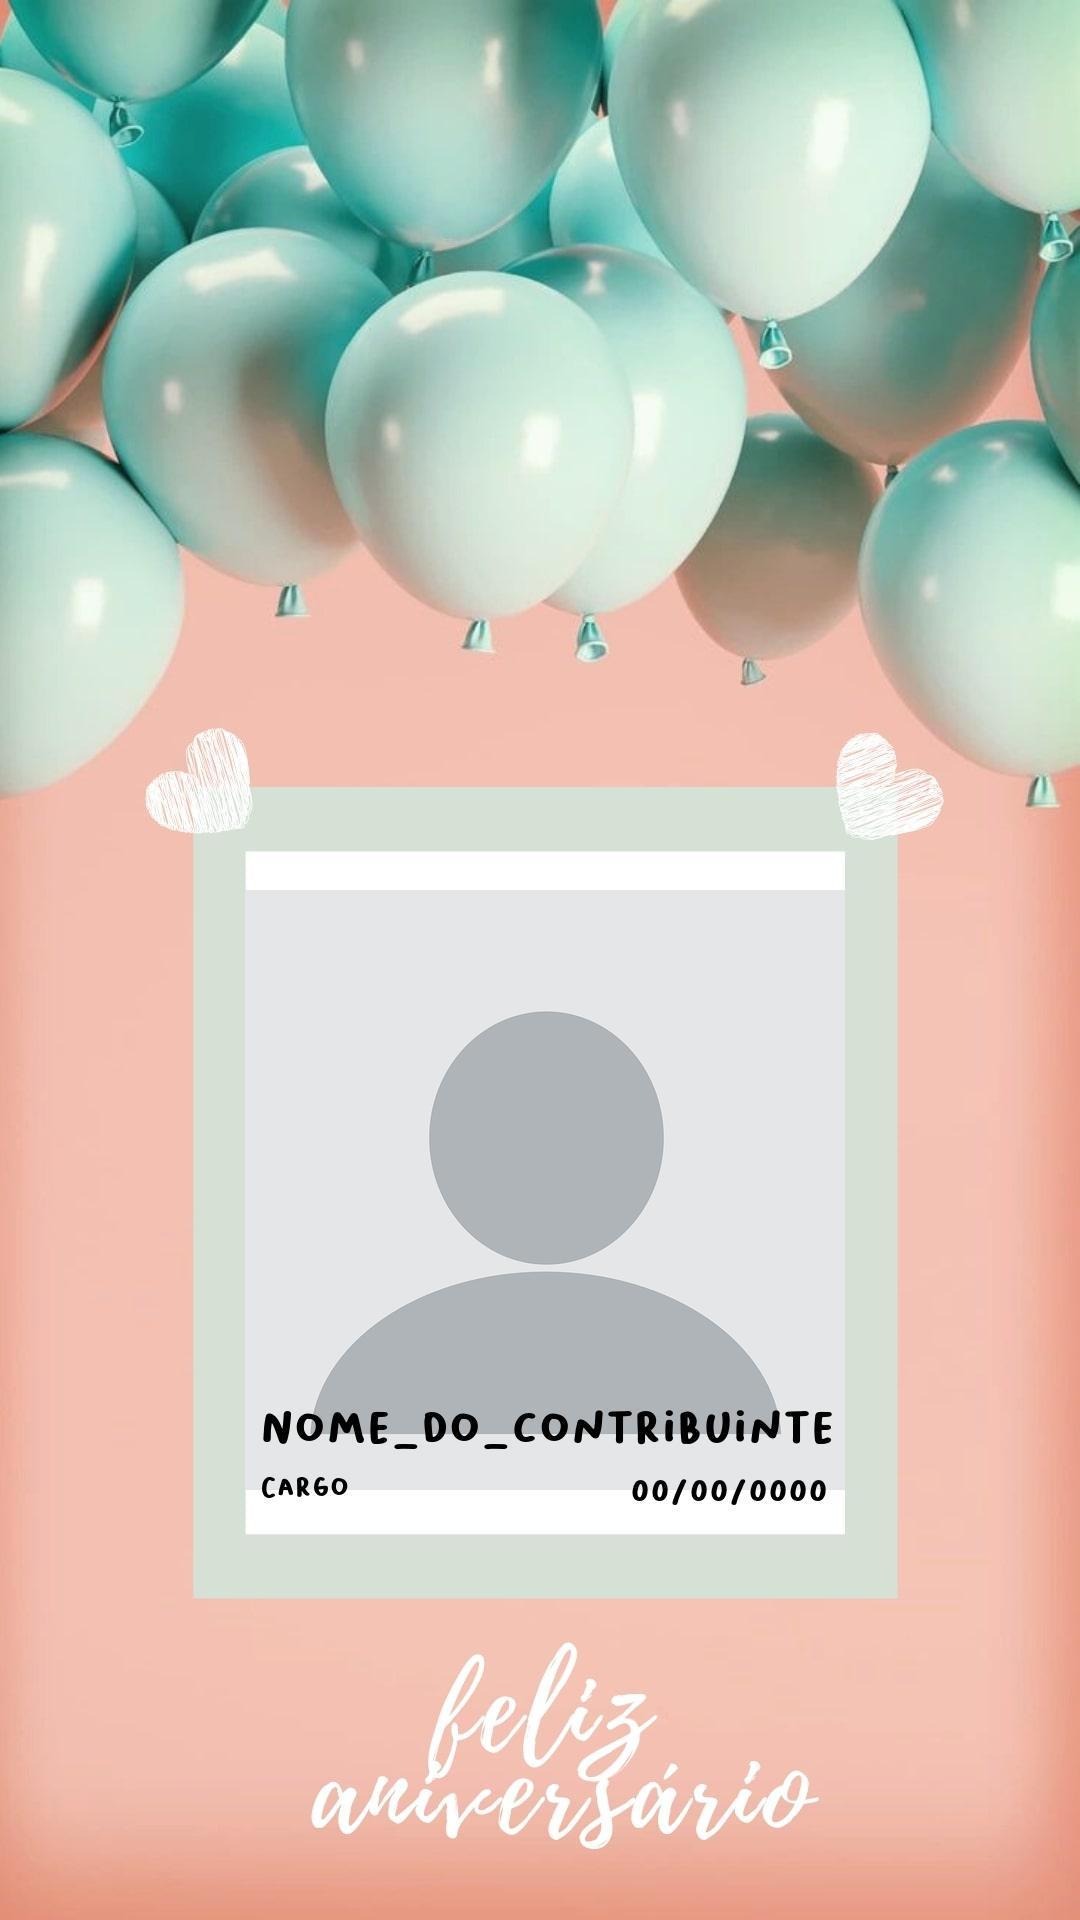
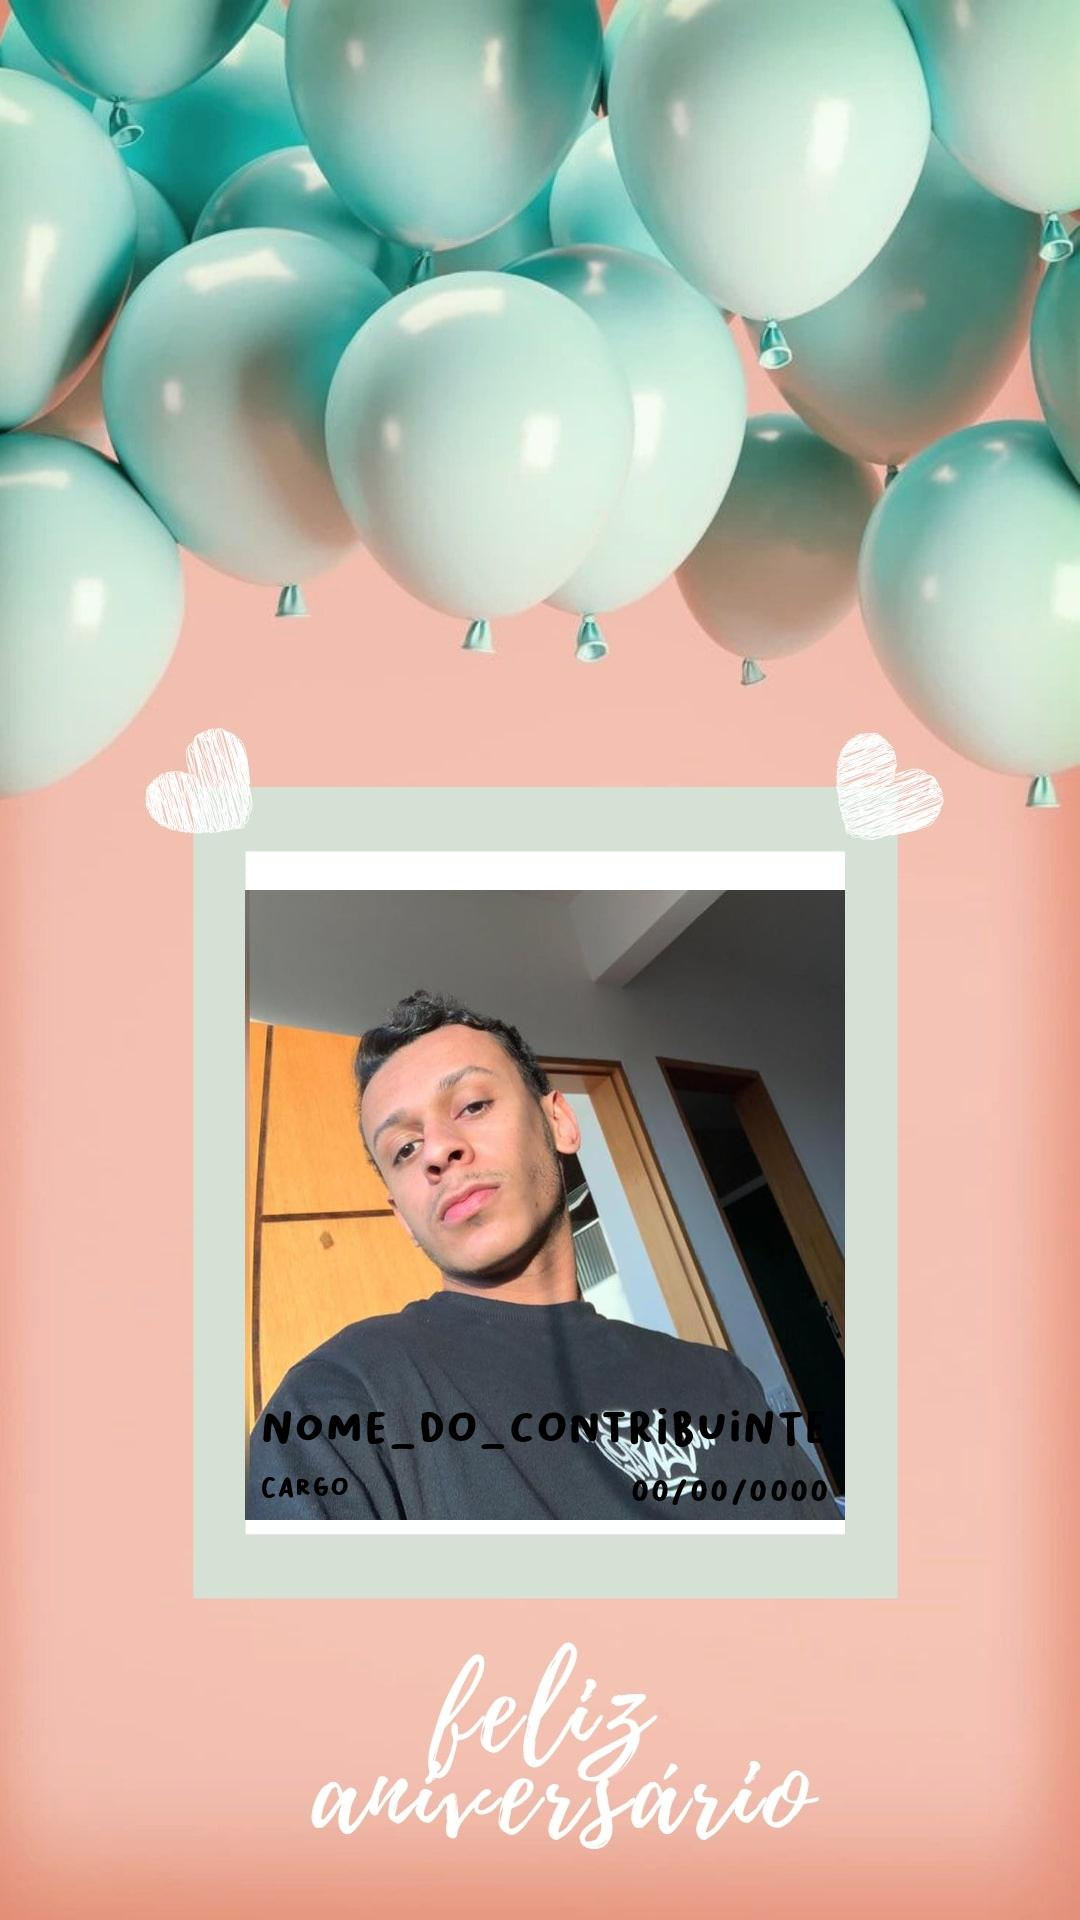
Implement gitignore

Changed region(s): [[0.2139, 0.4375, 0.7944, 0.8125]]

diff --git a/manipulation.py b/manipulation.py
@@ -7,7 +7,7 @@ from PIL import ImageFont
 # largura de 600px para encaixar no template selecionado.
 def calcNewHeight(newWidth, profilePicture):
     width, height = profilePicture.size
-    newHeight = round((newWidth * height) / width)
+    newHeight = round((newWidth * height) / width)+30
     return newHeight
 
 # Em conjunto com a calcNewHeight, a resizeImage utiliza o calculo realizado
@@ -43,7 +43,7 @@ if __name__ == "__main__":
     data_aniversario = '00/00/0000'
 
     template = Image.open('./template/template.jpg')
-    profilePicture = Image.open('./pictures/profilePicture.jpeg')
+    profilePicture = Image.open('./pictures/mypicture.jpg')
 
     resizeImage(newWidth, profilePicture)
     pictureResized = Image.open(f'./imagesResized/{name}Picture.png')

diff --git a/README.md b/README.md
@@ -2,5 +2,8 @@
 Esse repositório foi criado para armazenar testes em códigos com a biblioteca Pillow para a manipulação de imagens.
 O principal objetivo dele é automatizar a criação de imagens com a data, foto, nome e cargo do colaborador da empresa.
 
+## Segurança
+Por padrão de segurança foram ignorados os repositórios imagesCreated, imagesResized e pictures.
+
 ## Sites utilizados para o melhor desenvolvimento
 Para o melhor desenvolvimento desse software foi utilizado o site [mobilefish](https://www.mobilefish.com/services/record_mouse_coordinates/record_mouse_coordinates.php).
